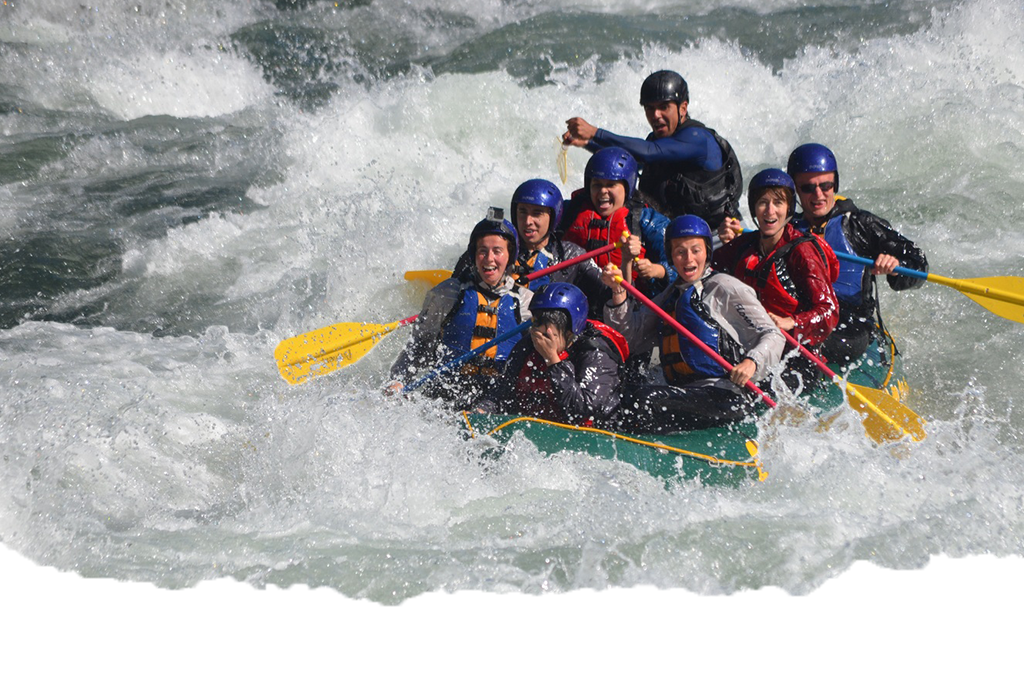
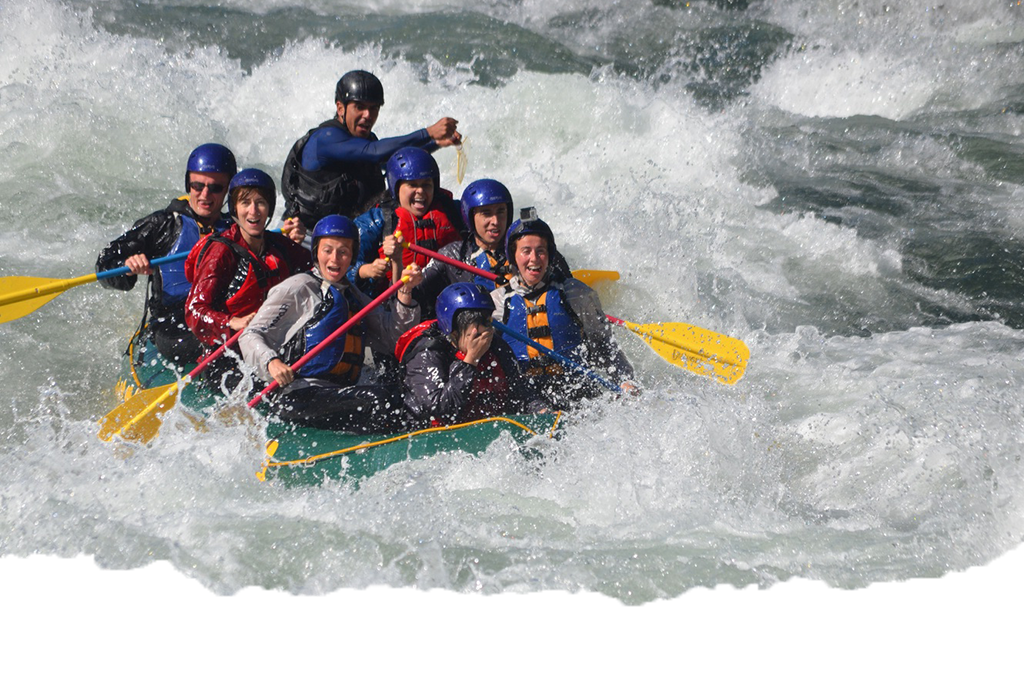
modificaciones martes 14 feb

diff --git a/wwr/styles/style.css b/wwr/styles/style.css
@@ -1,6 +1,48 @@
 @import url('https://fonts.googleapis.com/css2?family=Open+Sans:wght@800&display=swap');
+@import url('https://fonts.googleapis.com/css2?family=Montserrat:wght@400;600&family=Poppins:wght@200;300;400&family=Sofia&display=swap');
 
-
+@media screen and (max-width: 900px) {
+    #hero, .home-grid {
+        display: block;
+        height: auto;
+    }
+    nav, footer {
+        flex-direction: column;
+    }
+    nav a {
+        display: block;
+        padding: 15px;
+    }
+    #hero {
+        margin-top: 0;
+    }
+    #hero-msg {
+        margin-top: 0;
+    }
+    #hero-msg h4 {
+        display: none;
+    }
+    .home-title {
+        font-size: 25px;
+        color: #6f7364;
+    }
+    .rivers-card, .camping-card, .rapids-card { 
+        margin: 50px auto;
+        width: 60%;
+    }
+    #background {
+        display: none;
+    }
+    .mountains, .msg {
+        width: 80%;
+        display: block;
+        margin: 0 auto;
+    }
+    footer {
+        margin-top: 25px;
+    }
+}
+     
 
 :root {
     /* create color pallete */
@@ -22,14 +64,14 @@
     --home-title-font-family: Sofia, Helvetica, sans-serif;
 
     --header-font-size-small: 3em;
-    --header-font-size-large: 4em;
+    --header-font-size-large: 3em;
     --paragraph-font-size-xsmall: 0.5em;
     --paragraph-font-size-small: 1em;
     --paragraph-font-size-medium: 1.5em;
     --paragraph-font-size-large: 2em;
     --book-font-size: 18px;
     --join-font-size: 18px;
-    --home-title-font-size: 2em;
+    --home-title-font-size: 4em;
     --msg-p-font-size: .8em;
 
     --headline-color-on-white: #66a9da;
@@ -46,9 +88,12 @@
     --nav-hover-link-color: white;
     --nav-hover-background-color: #032136;
     --nav-font-size: 1em;
+}
+*
+{
+    border-radius: 10px;
 
 }
-
 body {
     font-family: var(--paragraph-font);
     color: var(--teal-blue);
@@ -59,22 +104,24 @@ body {
 
 h2 {
     margin: 0;
-
 }
 
+h4 {
+    color : var(--headline-color-on-color);
+    font-family:Verdana, Geneva, Tahoma, sans-serif;
+    font-size:x-large;
+}
 #content {
     max-width: 1600px;
     margin: 0 auto;
-}
-
-#hero img {
-    width: 100%;
 }
 
 .home-title {
     font-family: var(--home-title-font-family);
     font-size: var(--home-title-font-size);
     margin-top: 10px;
+    color: var(--accent2-color);
+    
 }
 
 #navigation_div {
@@ -88,18 +135,15 @@ h2 {
 
 header {
     margin-bottom: 24px;
+    background-color: var(--secondary-color);
     display: grid;
-    grid-template-columns: 150px auto;
-    border: 1px solid orange;
+    grid-template-columns: 150px auto;    
 }
 
 #logo_link {
     padding-top: 5px;
-    justify-self: center;
-    align-self: center;
 }
 
-#navigation_div img {}
 
 nav {
     display: flex;
@@ -109,12 +153,16 @@ nav {
 nav a {
     font-size: var(--nav-font-size);
     text-decoration: none;
+    text-align: center;    
+    color: var(--accent1-color);
+    align-self: center;
+    padding: 15px;
 }
-
 
 nav a:hover {
     text-decoration: none;
     color: var(--nav-hover-link-color);
+    background-color: var(--nav-hover-background-color);
 }
 
 nav a:visited {
@@ -129,21 +177,47 @@ nav a:link {
 
 #logo_link {
     padding-top: 5px;
+    padding-top: 5px;
+    justify-self: center;
+    align-self: center;    
 }
 
 #hero {
     display: grid;
     grid-template-columns: 1fr 3fr 1fr;
-}
-
-#hero_msg {
-    top: 10px;
-}
-
-main {
+    margin-top: -100px;  
     text-align: center;
 }
+#hero-msg {
+    grid-column: 2/3;
+    grid-row: 1/2;
+    margin-top: 100px;
+}
+#hero img {
+    width: 100%;
+}
 
+#hero_msg h1, #hero_msg h4 {
+    text-align: center;
+
+}
+#hero-box {
+    grid-column: 1/4;
+    grid-row: 1/3;
+    z-index: -1;
+}
+main section {
+    text-align: center;
+}
+.button-box{
+    text-align: center;
+
+}
+.home-grid
+{
+    display: grid;
+    grid-template-columns: repeat(10, 1fr);
+}
 main section img {
     box-sizing: border-box;
 }
@@ -160,9 +234,16 @@ a {
     color: var(--accent1-color);
     font-family: var(--paragraph-font-size-xlarge);
     font-size: var(--book-font-size);
-
+    text-decoration: none;
+    padding: 10px;
 
 }
+.book:hover,
+.join:hover {
+    background-color: var(--accent2-color);
+    color: var(--headline-color-on-color)
+}
+
 
 #background {
     height: 725px;
@@ -170,6 +251,7 @@ a {
     grid-column: 1/11;
     grid-row: 4/9;
 }
+
 
 .mountains {
     width: 100%;
@@ -180,10 +262,11 @@ a {
 
 .msg {
     background-color: var(--accent1-color);
-    background-color: var(--secondary-color);
     box-sizing: border-box;
-
-
+    grid-column: 6/10;
+    grid-row: 6/7;
+    box-shadow: 5px 5px 10px #6f7364;
+    padding: 25px;
 }
 
 .msg h2 {
@@ -203,21 +286,35 @@ a {
 
 }
 
+
+
 .card-img {
     border: 10px solid var(--secondary-color);
+    width: 100%;
+    border: 10px solid #d9c2a3;
+    transition: transform .5s;
+    box-shadow: 5px 5px 10px #6f7364;       
 }
-
-.rivers_card {
+.card-img:hover {
+    opacity: .6;
+    transform: scale(1.1);
+}
+.rivers-card {
     margin: 200px 0;
+    grid-column: 2/4;
+    grid-row: 2/3;
 }
 
 .camping-card {
     margin: 200px 0;
+    grid-column: 5/7;
+    grid-row: 2/3;
 }
 
 .rapids-card {
     margin: 200px 0;
-}
+    grid-column: 8/10;
+    grid-row: 2/3;}
 
 .button_box a {
     border-style: solid;
@@ -229,16 +326,24 @@ a {
 footer {
     background-color: var(--midnight-green-eagle-green);
     color: var(--primary-color);
+    padding: 25px 50px;
+    margin-top: 200px; 
+    display: flex;
+    justify-content: space-around;
+    align-items: center;    
 }
 
-footer p {}
+footer p {
+    font-size: 1.2em;
+
+}
 
 footer a {
     font-family: var(--paragraph-font);
     font-size: var(--paragraph-font-xsmall);
     text-decoration: none;
     color: var(--primary-color);
-
+    padding: 20px;
 }
 
 footer a:hover {

diff --git a/wwr/index.html b/wwr/index.html
@@ -6,7 +6,7 @@
     <meta http-equiv="X-UA-Compatible" content="IE=edge">
     <meta name="viewport" content="width=device-width, initial-scale=1.0">
     <title>Whitewater Rafting Vacations | Dry Oar Boating | Home</title>
-    <link rel="stylesheet" href="styles/style1.css">
+    <link rel="stylesheet" href="styles/style.css">
 </head>
 
 <body>
@@ -24,11 +24,11 @@
         </header>
         <div id="hero">
             <div id="hero-box">
-                <img id="hero-img" src="images/hero.png" alt="People enjoying rafting">
+                <img id="hero-img" src="images/hero.jpg" alt="People enjoying rafting">
             </div>
             <section id="hero-msg">
-                <h1 class="home-title">Have An Adventure</h1>
-                <h4>Make Memories with Dry Oar</h4>
+                <h1 class="home-title">Have a great adventure</h1>
+                <h4>Make memories with Dry Oar</h4>
                 <div class="button-box">
                     <a class="book" href="contactus.html">Book Now</a>
                 </div>
@@ -50,20 +50,17 @@
                 <img class="icon" src="images/oars.png" alt="Oars Icon">
                 <h2>Rapids</h2>
             </section>
-            <div id="background">
+            <div id="background"></div>
                 <img class="mountains" src="images/mountains.jpg" alt="Misty Mountains">
                 <section class="msg">
                     <h2>More than Just a Thrill</h2>
                     <p>Enjoy the breathtaking scenery. From valleys, meadows, canyons, and high peaks; it's way more
-                        than
-                        just
-                        the
-                        rapids. It's a great way to get away from it all and relax amongst all the beauty of the great
+                        than just the rapids. It's a great way to get away from it all and relax amongst all the beauty of the great
                         outdoors.
                     </p>
                     <a class="join" href="rivers.html">Join us</a>
                 </section>
-            </div>
+            
         </main>
         <footer>
             <p>Dry Oar &copy; 2023 - Oscar Rodriguez</p>
